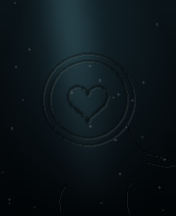
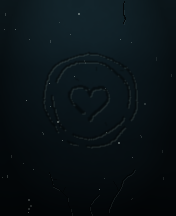
7.6.50: gear slots: four paintings of the water (no shared ray of light), tiny sharp sea snow, the mythical slot's seal cut unevenly; a slot's rarity as light pooling up from the bottom of its well with a fine lit edge climbing the sides (legendary and mythical breathing), not a bar along its foot; 
Claude-Session: https://claude.ai/code/session_01KViiRYY5HFnTy3p7jvNZMS

diff --git a/index.html b/index.html
@@ -81,8 +81,8 @@
   <link rel="preconnect" href="https://fonts.googleapis.com">
   <link rel="preconnect" href="https://fonts.gstatic.com" crossorigin>
   <link href="https://fonts.googleapis.com/css2?family=Barlow+Semi+Condensed:wght@400;500;600;700&display=block" rel="stylesheet">
-  <link rel="stylesheet" href="css/style.css?v=7.6.49">
-  <link rel="stylesheet" href="css/olive.css?v=7.6.49">
+  <link rel="stylesheet" href="css/style.css?v=7.6.50">
+  <link rel="stylesheet" href="css/olive.css?v=7.6.50">
   <style>
     /* (4.17.2) the loading screen, poster-style: the painting left alone (only a slow push-in), and over it, at the
        lower left, flat type in the sunset's own orange and a warm off-white: a stamped helmet mark, the title, a
@@ -438,97 +438,97 @@
   <!-- stamp:start (tools/stamp.py) -->
   <script type="importmap">
   { "imports": {
-    "./js/abilities.js": "./js/abilities.js?v=7.6.49",
-    "./js/achievements.js": "./js/achievements.js?v=7.6.49",
-    "./js/alarm.js": "./js/alarm.js?v=7.6.49",
-    "./js/aquarium.js": "./js/aquarium.js?v=7.6.49",
-    "./js/aquarium_draw.js": "./js/aquarium_draw.js?v=7.6.49",
-    "./js/arm.js": "./js/arm.js?v=7.6.49",
-    "./js/audio.js": "./js/audio.js?v=7.6.49",
-    "./js/autopilot.js": "./js/autopilot.js?v=7.6.49",
-    "./js/barge_draw.js": "./js/barge_draw.js?v=7.6.49",
-    "./js/buoy_draw.js": "./js/buoy_draw.js?v=7.6.49",
-    "./js/cabin.js": "./js/cabin.js?v=7.6.49",
-    "./js/capture.js": "./js/capture.js?v=7.6.49",
-    "./js/catalog.js": "./js/catalog.js?v=7.6.49",
-    "./js/chart.js": "./js/chart.js?v=7.6.49",
-    "./js/chest_art.js": "./js/chest_art.js?v=7.6.49",
-    "./js/chests.js": "./js/chests.js?v=7.6.49",
-    "./js/clouds.js": "./js/clouds.js?v=7.6.49",
-    "./js/codes.js": "./js/codes.js?v=7.6.49",
-    "./js/coin_art.js": "./js/coin_art.js?v=7.6.49",
-    "./js/coins.js": "./js/coins.js?v=7.6.49",
-    "./js/contracts.js": "./js/contracts.js?v=7.6.49",
-    "./js/creatures_draw.js": "./js/creatures_draw.js?v=7.6.49",
-    "./js/dave.js": "./js/dave.js?v=7.6.49",
-    "./js/dave_art.js": "./js/dave_art.js?v=7.6.49",
-    "./js/designs.js": "./js/designs.js?v=7.6.49",
-    "./js/earl_draw.js": "./js/earl_draw.js?v=7.6.49",
-    "./js/economy.js": "./js/economy.js?v=7.6.49",
-    "./js/entity.js": "./js/entity.js?v=7.6.49",
-    "./js/face_draw.js": "./js/face_draw.js?v=7.6.49",
-    "./js/fatfinger.js": "./js/fatfinger.js?v=7.6.49",
-    "./js/fauna.js": "./js/fauna.js?v=7.6.49",
-    "./js/fittings.js": "./js/fittings.js?v=7.6.49",
-    "./js/gallery.js": "./js/gallery.js?v=7.6.49",
-    "./js/gauge_art.js": "./js/gauge_art.js?v=7.6.49",
-    "./js/gear_art.js": "./js/gear_art.js?v=7.6.49",
-    "./js/glyphs.js": "./js/glyphs.js?v=7.6.49",
-    "./js/hud.js": "./js/hud.js?v=7.6.49",
-    "./js/hunters.js": "./js/hunters.js?v=7.6.49",
-    "./js/input.js": "./js/input.js?v=7.6.49",
-    "./js/item_art.js": "./js/item_art.js?v=7.6.49",
-    "./js/item_data.js": "./js/item_data.js?v=7.6.49",
-    "./js/item_words.js": "./js/item_words.js?v=7.6.49",
-    "./js/itemcard.js": "./js/itemcard.js?v=7.6.49",
-    "./js/items.js": "./js/items.js?v=7.6.49",
-    "./js/journal_tank.js": "./js/journal_tank.js?v=7.6.49",
-    "./js/kit_art.js": "./js/kit_art.js?v=7.6.49",
-    "./js/legendfx.js": "./js/legendfx.js?v=7.6.49",
-    "./js/main.js": "./js/main.js?v=7.6.49",
-    "./js/messages.js": "./js/messages.js?v=7.6.49",
-    "./js/monster_draw.js": "./js/monster_draw.js?v=7.6.49",
-    "./js/oldone.js": "./js/oldone.js?v=7.6.49",
-    "./js/petfeed.js": "./js/petfeed.js?v=7.6.49",
-    "./js/pets.js": "./js/pets.js?v=7.6.49",
-    "./js/petshop.js": "./js/petshop.js?v=7.6.49",
-    "./js/player.js": "./js/player.js?v=7.6.49",
-    "./js/purchases.js": "./js/purchases.js?v=7.6.49",
-    "./js/quests.js": "./js/quests.js?v=7.6.49",
-    "./js/render.js": "./js/render.js?v=7.6.49",
-    "./js/reveal.js": "./js/reveal.js?v=7.6.49",
-    "./js/scenery_draw.js": "./js/scenery_draw.js?v=7.6.49",
-    "./js/scrolls.js": "./js/scrolls.js?v=7.6.49",
-    "./js/settings.js": "./js/settings.js?v=7.6.49",
-    "./js/shelf.js": "./js/shelf.js?v=7.6.49",
-    "./js/showcase.js": "./js/showcase.js?v=7.6.49",
-    "./js/sleeper_draw.js": "./js/sleeper_draw.js?v=7.6.49",
-    "./js/species.js": "./js/species.js?v=7.6.49",
-    "./js/species_looks.js": "./js/species_looks.js?v=7.6.49",
-    "./js/specimens.js": "./js/specimens.js?v=7.6.49",
-    "./js/station_draw.js": "./js/station_draw.js?v=7.6.49",
-    "./js/store.js": "./js/store.js?v=7.6.49",
-    "./js/suit_art.js": "./js/suit_art.js?v=7.6.49",
-    "./js/survey.js": "./js/survey.js?v=7.6.49",
-    "./js/tankroom.js": "./js/tankroom.js?v=7.6.49",
-    "./js/textures.js": "./js/textures.js?v=7.6.49",
-    "./js/title_art.js": "./js/title_art.js?v=7.6.49",
-    "./js/tokens.js": "./js/tokens.js?v=7.6.49",
-    "./js/tools_draw.js": "./js/tools_draw.js?v=7.6.49",
-    "./js/touch.js": "./js/touch.js?v=7.6.49",
-    "./js/trail.js": "./js/trail.js?v=7.6.49",
-    "./js/traps.js": "./js/traps.js?v=7.6.49",
-    "./js/tutspot.js": "./js/tutspot.js?v=7.6.49",
-    "./js/ui.js": "./js/ui.js?v=7.6.49",
-    "./js/undocumented_draw.js": "./js/undocumented_draw.js?v=7.6.49",
-    "./js/units.js": "./js/units.js?v=7.6.49",
-    "./js/util.js": "./js/util.js?v=7.6.49",
-    "./js/variants.js": "./js/variants.js?v=7.6.49",
-    "./js/version.js": "./js/version.js?v=7.6.49",
-    "./js/world.js": "./js/world.js?v=7.6.49",
-    "./data/species_about.js": "./data/species_about.js?v=7.6.49",
-    "./data/species_data.js": "./data/species_data.js?v=7.6.49",
-    "./data/species_more.js": "./data/species_more.js?v=7.6.49"
+    "./js/abilities.js": "./js/abilities.js?v=7.6.50",
+    "./js/achievements.js": "./js/achievements.js?v=7.6.50",
+    "./js/alarm.js": "./js/alarm.js?v=7.6.50",
+    "./js/aquarium.js": "./js/aquarium.js?v=7.6.50",
+    "./js/aquarium_draw.js": "./js/aquarium_draw.js?v=7.6.50",
+    "./js/arm.js": "./js/arm.js?v=7.6.50",
+    "./js/audio.js": "./js/audio.js?v=7.6.50",
+    "./js/autopilot.js": "./js/autopilot.js?v=7.6.50",
+    "./js/barge_draw.js": "./js/barge_draw.js?v=7.6.50",
+    "./js/buoy_draw.js": "./js/buoy_draw.js?v=7.6.50",
+    "./js/cabin.js": "./js/cabin.js?v=7.6.50",
+    "./js/capture.js": "./js/capture.js?v=7.6.50",
+    "./js/catalog.js": "./js/catalog.js?v=7.6.50",
+    "./js/chart.js": "./js/chart.js?v=7.6.50",
+    "./js/chest_art.js": "./js/chest_art.js?v=7.6.50",
+    "./js/chests.js": "./js/chests.js?v=7.6.50",
+    "./js/clouds.js": "./js/clouds.js?v=7.6.50",
+    "./js/codes.js": "./js/codes.js?v=7.6.50",
+    "./js/coin_art.js": "./js/coin_art.js?v=7.6.50",
+    "./js/coins.js": "./js/coins.js?v=7.6.50",
+    "./js/contracts.js": "./js/contracts.js?v=7.6.50",
+    "./js/creatures_draw.js": "./js/creatures_draw.js?v=7.6.50",
+    "./js/dave.js": "./js/dave.js?v=7.6.50",
+    "./js/dave_art.js": "./js/dave_art.js?v=7.6.50",
+    "./js/designs.js": "./js/designs.js?v=7.6.50",
+    "./js/earl_draw.js": "./js/earl_draw.js?v=7.6.50",
+    "./js/economy.js": "./js/economy.js?v=7.6.50",
+    "./js/entity.js": "./js/entity.js?v=7.6.50",
+    "./js/face_draw.js": "./js/face_draw.js?v=7.6.50",
+    "./js/fatfinger.js": "./js/fatfinger.js?v=7.6.50",
+    "./js/fauna.js": "./js/fauna.js?v=7.6.50",
+    "./js/fittings.js": "./js/fittings.js?v=7.6.50",
+    "./js/gallery.js": "./js/gallery.js?v=7.6.50",
+    "./js/gauge_art.js": "./js/gauge_art.js?v=7.6.50",
+    "./js/gear_art.js": "./js/gear_art.js?v=7.6.50",
+    "./js/glyphs.js": "./js/glyphs.js?v=7.6.50",
+    "./js/hud.js": "./js/hud.js?v=7.6.50",
+    "./js/hunters.js": "./js/hunters.js?v=7.6.50",
+    "./js/input.js": "./js/input.js?v=7.6.50",
+    "./js/item_art.js": "./js/item_art.js?v=7.6.50",
+    "./js/item_data.js": "./js/item_data.js?v=7.6.50",
+    "./js/item_words.js": "./js/item_words.js?v=7.6.50",
+    "./js/itemcard.js": "./js/itemcard.js?v=7.6.50",
+    "./js/items.js": "./js/items.js?v=7.6.50",
+    "./js/journal_tank.js": "./js/journal_tank.js?v=7.6.50",
+    "./js/kit_art.js": "./js/kit_art.js?v=7.6.50",
+    "./js/legendfx.js": "./js/legendfx.js?v=7.6.50",
+    "./js/main.js": "./js/main.js?v=7.6.50",
+    "./js/messages.js": "./js/messages.js?v=7.6.50",
+    "./js/monster_draw.js": "./js/monster_draw.js?v=7.6.50",
+    "./js/oldone.js": "./js/oldone.js?v=7.6.50",
+    "./js/petfeed.js": "./js/petfeed.js?v=7.6.50",
+    "./js/pets.js": "./js/pets.js?v=7.6.50",
+    "./js/petshop.js": "./js/petshop.js?v=7.6.50",
+    "./js/player.js": "./js/player.js?v=7.6.50",
+    "./js/purchases.js": "./js/purchases.js?v=7.6.50",
+    "./js/quests.js": "./js/quests.js?v=7.6.50",
+    "./js/render.js": "./js/render.js?v=7.6.50",
+    "./js/reveal.js": "./js/reveal.js?v=7.6.50",
+    "./js/scenery_draw.js": "./js/scenery_draw.js?v=7.6.50",
+    "./js/scrolls.js": "./js/scrolls.js?v=7.6.50",
+    "./js/settings.js": "./js/settings.js?v=7.6.50",
+    "./js/shelf.js": "./js/shelf.js?v=7.6.50",
+    "./js/showcase.js": "./js/showcase.js?v=7.6.50",
+    "./js/sleeper_draw.js": "./js/sleeper_draw.js?v=7.6.50",
+    "./js/species.js": "./js/species.js?v=7.6.50",
+    "./js/species_looks.js": "./js/species_looks.js?v=7.6.50",
+    "./js/specimens.js": "./js/specimens.js?v=7.6.50",
+    "./js/station_draw.js": "./js/station_draw.js?v=7.6.50",
+    "./js/store.js": "./js/store.js?v=7.6.50",
+    "./js/suit_art.js": "./js/suit_art.js?v=7.6.50",
+    "./js/survey.js": "./js/survey.js?v=7.6.50",
+    "./js/tankroom.js": "./js/tankroom.js?v=7.6.50",
+    "./js/textures.js": "./js/textures.js?v=7.6.50",
+    "./js/title_art.js": "./js/title_art.js?v=7.6.50",
+    "./js/tokens.js": "./js/tokens.js?v=7.6.50",
+    "./js/tools_draw.js": "./js/tools_draw.js?v=7.6.50",
+    "./js/touch.js": "./js/touch.js?v=7.6.50",
+    "./js/trail.js": "./js/trail.js?v=7.6.50",
+    "./js/traps.js": "./js/traps.js?v=7.6.50",
+    "./js/tutspot.js": "./js/tutspot.js?v=7.6.50",
+    "./js/ui.js": "./js/ui.js?v=7.6.50",
+    "./js/undocumented_draw.js": "./js/undocumented_draw.js?v=7.6.50",
+    "./js/units.js": "./js/units.js?v=7.6.50",
+    "./js/util.js": "./js/util.js?v=7.6.50",
+    "./js/variants.js": "./js/variants.js?v=7.6.50",
+    "./js/version.js": "./js/version.js?v=7.6.50",
+    "./js/world.js": "./js/world.js?v=7.6.50",
+    "./data/species_about.js": "./data/species_about.js?v=7.6.50",
+    "./data/species_data.js": "./data/species_data.js?v=7.6.50",
+    "./data/species_more.js": "./data/species_more.js?v=7.6.50"
   } }
   </script>
   <script type="module">if (!window.__shell) import("./js/main.js");</script>

diff --git a/css/olive.css b/css/olive.css
@@ -2331,7 +2331,6 @@ html body #quests .qs-cash-ic { width: 26px; height: 20px; object-fit: contain; 
 /* (7.6.48, owner) the bag's first skill slot, the only one that takes a mythical scroll: four small ember-bronze corner
    brackets set into the plate round it, and a faint warmth in its well */
 html body #inventory .eq-slot.myth-slot { position: relative; }
-html body #inventory .eq-slot.myth-slot::after { content: ''; position: absolute; inset: -2px; pointer-events: none; box-shadow: inset 0 0 14px rgba(170, 64, 36, 0.28); }
 html body #inventory .eq-slot.myth-slot .ms-c { position: absolute; width: 14px; height: 14px; pointer-events: none; border: 0 solid #a4552f; filter: drop-shadow(0 1px 0 rgba(0, 0, 0, 0.7)); z-index: 2; }
 html body #inventory .eq-slot.myth-slot .ms-c.a { left: -9px; top: -9px; border-left-width: 3px; border-top-width: 3px; }
 html body #inventory .eq-slot.myth-slot .ms-c.b { right: -9px; top: -9px; border-right-width: 3px; border-top-width: 3px; }
@@ -2358,12 +2357,32 @@ html body #inventory .st-cell.fx-down .st-d { color: #cc7a5c; animation: st-rise
 /* (7.6.49, owner) the gear slots' insides painted as deep water seen through the well, a few hairline cracks in the steel
    (tools/slot_wells.py); the first skill slot more so, with a worn seal pressed into its back. Its ember warmth only
    when a mythical scroll is in it; no rings or brackets round it */
-html body #inventory .eq-stage .eq-slot.sq:not(#_a):not(#_b) { border-image: url("../assets/ui/olive/well.png") 30 / 8px stretch !important; background: url("../assets/ui/olive/slot_deep.png") center / 100% 100% no-repeat !important; background-clip: padding-box !important; }
+html body #inventory .eq-stage .eq-slot.sq:not(#_a):not(#_b) { border-image: url("../assets/ui/olive/well.png") 30 / 8px stretch !important; background: url("../assets/ui/olive/slot_deep1.png") center / 100% 100% no-repeat !important; background-clip: padding-box !important; box-shadow: none !important; position: relative; }
 html body #inventory .eq-stage .eq-slot.sq.myth-slot:not(#_a):not(#_b) { background-image: url("../assets/ui/olive/slot_myth.png") !important; }
-html body #inventory .eq-stage .eq-slot.sq.myth-slot.r-mythical:not(#_a):not(#_b) { background: radial-gradient(ellipse at 50% 55%, rgba(200, 74, 44, 0.42), rgba(120, 30, 16, 0.18) 55%, rgba(0, 0, 0, 0) 80%), url("../assets/ui/olive/slot_myth.png") center / 100% 100% no-repeat !important; background-clip: padding-box !important; box-shadow: inset 0 -3px 0 var(--rc, transparent) !important; }
-html body #inventory .eq-stage .eq-slot.sq.r-mythical:not(.myth-slot) { box-shadow: inset 0 -3px 0 var(--rc, transparent) !important; }
-html body #inventory .eq-slot.myth-slot::after, html body #inventory .eq-slot.myth-slot .ms-c { display: none !important; }
+html body #inventory .eq-stage .eq-slot.sq.myth-slot.r-mythical:not(#_a):not(#_b) { background: radial-gradient(ellipse at 50% 55%, rgba(200, 74, 44, 0.42), rgba(120, 30, 16, 0.18) 55%, rgba(0, 0, 0, 0) 80%), url("../assets/ui/olive/slot_myth.png") center / 100% 100% no-repeat !important; background-clip: padding-box !important; box-shadow: none !important; }
+html body #inventory .eq-stage .eq-slot.sq.r-mythical:not(.myth-slot) { box-shadow: none !important; }
+html body #inventory .eq-slot.myth-slot .ms-c { display: none !important; }
 /* (7.6.49, owner) the helmet slot, waiting for helmets; the glow sticks in a pouch at his feet */
 html body #inventory .eq-stage { position: relative; }
 html body #inventory .eq-stage .eq-slot.helmet { opacity: 0.75; }
-html body #inventory .eq-pouch { position: absolute; left: calc(50% + 62px); bottom: 22px; transform: scale(0.78); transform-origin: 50% 100%; z-index: 2; }
+html body #inventory .eq-pouch { position: absolute; left: calc(50% + 98px); bottom: 22px; transform: scale(0.78); transform-origin: 50% 100%; z-index: 2; }
+/* (7.6.50, owner) each slot its own painting of the water, so no two neighbours match */
+html body #inventory .eq-stage .eq-col:first-child .eq-slot.sq:nth-child(4n+2):not(#_a):not(#_b), html body #inventory .eq-stage .eq-col:last-child .eq-slot.sq:nth-child(4n+4):not(#_a):not(#_b) { background-image: url("../assets/ui/olive/slot_deep2.png") !important; }
+html body #inventory .eq-stage .eq-col:first-child .eq-slot.sq:nth-child(4n+3):not(#_a):not(#_b), html body #inventory .eq-stage .eq-col:last-child .eq-slot.sq:nth-child(4n+1):not(#_a):not(#_b) { background-image: url("../assets/ui/olive/slot_deep3.png") !important; }
+html body #inventory .eq-stage .eq-col:first-child .eq-slot.sq:nth-child(4n+4):not(#_a):not(#_b), html body #inventory .eq-stage .eq-col:last-child .eq-slot.sq:nth-child(4n+2):not(#_a):not(#_b) { background-image: url("../assets/ui/olive/slot_deep4.png") !important; }
+html body #inventory .eq-stage .eq-slot.sq.myth-slot:not(#_a):not(#_b) { background-image: url("../assets/ui/olive/slot_myth.png") !important; }
+html body #inventory .eq-stage .eq-slot.sq.myth-slot.r-mythical:not(#_a):not(#_b) { background-image: radial-gradient(ellipse at 50% 55%, rgba(200, 74, 44, 0.42), rgba(120, 30, 16, 0.18) 55%, rgba(0, 0, 0, 0) 80%), url("../assets/ui/olive/slot_myth.png") !important; }
+/* (7.6.50, owner) a slot's rarity, not a bar along its foot (it read as a durability meter): the rarity's light pooling up
+   from the bottom of the well, a fine lit edge along the foot that climbs a little way up each side and fades; the
+   legendary's and the mythical's breathing slowly */
+html body #inventory .eq-stage .eq-slot.sq:not(.empty) > img, html body #inventory .eq-stage .eq-slot.sq > .slot-nm, html body #inventory .eq-stage .eq-slot.sq > b { position: relative; z-index: 1; }
+html body #inventory .eq-stage .eq-slot.sq:not(.empty)::before { content: ''; position: absolute; inset: 0; pointer-events: none; z-index: 0;
+  background: radial-gradient(130% 50% at 50% 112%, color-mix(in srgb, var(--rc, #888) 42%, transparent), color-mix(in srgb, var(--rc, #888) 10%, transparent) 55%, transparent 80%); }
+html body #inventory .eq-stage .eq-slot.sq:not(.empty)::after { content: ''; position: absolute; inset: 0; pointer-events: none; z-index: 0; border: 1px solid color-mix(in srgb, var(--rc, #888) 80%, transparent); border-top: 0;
+  -webkit-mask-image: linear-gradient(to top, #000 0, #000 6%, rgba(0, 0, 0, 0.35) 22%, transparent 42%); mask-image: linear-gradient(to top, #000 0, #000 6%, rgba(0, 0, 0, 0.35) 22%, transparent 42%); box-shadow: inset 0 -6px 10px -6px color-mix(in srgb, var(--rc, #888) 70%, transparent); }
+html body #inventory .eq-stage .eq-slot.sq.r-legendary::before, html body #inventory .eq-stage .eq-slot.sq.r-mythical::before { animation: slot-breathe 4.5s ease-in-out infinite; }
+@keyframes slot-breathe { 50% { opacity: 0.6; } }
+@media (prefers-reduced-motion: reduce) { html body #inventory .eq-stage .eq-slot.sq::before { animation: none !important; } }
+/* bright things are earned: a common's light is faint, an uncommon's a little less so */
+html body #inventory .eq-stage .eq-slot.sq.r-common::before, html body #inventory .eq-stage .eq-slot.sq.r-common::after { opacity: 0.4; }
+html body #inventory .eq-stage .eq-slot.sq.r-uncommon::before, html body #inventory .eq-stage .eq-slot.sq.r-uncommon::after { opacity: 0.7; }

diff --git a/js/version.js b/js/version.js
@@ -1,3 +1,3 @@
 // The game's version. Bumped with every change: the last number for small fixes and tweaks,
 // the middle one for new features or bigger changes, the first for a major overhaul.
-export const VERSION = '7.6.49';
+export const VERSION = '7.6.50';

diff --git a/tools/slot_wells.py b/tools/slot_wells.py
@@ -1,9 +1,12 @@
 #!/usr/bin/env python3
-"""(7.6.49, owner) the inside of the bag's gear slots, painted once: deep water seen through the well (light from far
-above, darker below, a little sea snow), and a few hairline cracks in the steel. The first skill slot, the only one that
-takes a mythical scroll, gets more: deeper water, more cracks and a worn seal pressed into its back.
+"""(7.6.49-50, owner) the inside of the bag's gear slots, painted once: dark water seen through the well, no shaft of
+light (every slot had the same one, a row of identical rays): the light uneven and soft, each slot its own; tiny sharp
+specks of sea snow, the odd one drawn out as it sinks; a few hairline cracks in the steel. Four variants, so no two
+neighbouring slots match. The first skill slot, the only one that takes a mythical scroll, gets deeper water, more
+cracks and a worn seal pressed into its back, cut unevenly by hand: rings broken where the steel has worn, a heart
+that is not quite symmetrical.
 
-    python3 tools/slot_wells.py   -> assets/ui/olive/slot_deep.png, slot_myth.png
+    python3 tools/slot_wells.py   -> assets/ui/olive/slot_deep1..4.png, slot_myth.png
 """
 import os, math
 import numpy as np
@@ -20,56 +23,85 @@ def noise(rng, scale):
 
 def water(rng, top, bot, light):
     y = np.linspace(0, 1, H)[:, None]; x = np.linspace(-1, 1, W)[None, :]
-    k = y ** 0.8
+    k = y ** 0.9
     rgb = np.array(top)[None, None, :] * (1 - k[..., None]) + np.array(bot)[None, None, :] * k[..., None]
-    shaft = np.exp(-((x + 0.25 - y * 0.35) ** 2) / 0.08) * (1 - y) * light  # a faint slant of light from far above
-    n = (noise(rng, 18) - 0.5) * 0.05 + (noise(rng, 5) - 0.5) * 0.025
-    rgb = rgb * (1 + n[..., None]) + shaft[..., None] * np.array([40, 62, 66])[None, None, :]
-    vig = 1 - 0.45 * np.clip((np.abs(x) ** 2 + (np.abs(y - 0.45) * 1.6) ** 2), 0, 1)  # darker into the corners of the well
+    glow = np.clip(noise(rng, 70) - 0.45, 0, 1) * (1 - y) * light  # uneven light coming down through the water, soft and patchy
+    n = (noise(rng, 22) - 0.5) * 0.07 + (noise(rng, 6) - 0.5) * 0.035 + (noise(rng, 2) - 0.5) * 0.02
+    rgb = rgb * (1 + n[..., None]) + glow[..., None] * np.array([34, 54, 58])[None, None, :]
+    vig = 1 - 0.5 * np.clip((np.abs(x) ** 2.2 + (np.abs(y - 0.42) * 1.5) ** 2), 0, 1)
     return np.clip(rgb * vig[..., None], 0, 255)
 
 
 def snow(d, rng, n):
     for _ in range(n):
-        x, y, r = rng.uniform(0, W), rng.uniform(0, H), rng.uniform(0.5, 1.1)
-        d.ellipse([x - r, y - r, x + r, y + r], fill=(190, 204, 198, int(rng.uniform(18, 60))))
+        x, y = rng.uniform(2, W - 2), rng.uniform(2, H - 2); a = int(rng.uniform(40, 120)); c = (196, 208, 200)
+        if rng.random() < 0.2: d.line([(x, y), (x + rng.uniform(-0.6, 0.6), y + rng.uniform(1.5, 3))], fill=c + (a // 2,), width=1)  # sinking: drawn out
+        elif rng.random() < 0.25: d.rectangle([x, y, x + 1, y + 1], fill=c + (a,))
+        else: d.point((x, y), fill=c + (a,))
+
+
+def crack_path(rng, x, y, a, steps, step=(4, 9)):
+    pts = [(x, y)]
+    for _ in range(steps):
+        a += rng.uniform(-0.6, 0.6); x += math.cos(a) * rng.uniform(*step); y += math.sin(a) * rng.uniform(*step); pts.append((x, y))
+    return pts, a
 
 
 def cracks(d, rng, n, reach):
     for _ in range(n):
-        side = rng.integers(4)  # a crack runs in from an edge of the well
-        x, y = [(rng.uniform(10, W - 10), 2), (W - 2, rng.uniform(10, H - 10)), (rng.uniform(10, W - 10), H - 2), (2, rng.uniform(10, H - 10))][side]
-        a = [math.pi / 2, math.pi, -math.pi / 2, 0][side] + rng.uniform(-0.5, 0.5); pts = [(x, y)]
-        for _ in range(int(rng.integers(4, reach))):
-            a += rng.uniform(-0.55, 0.55); x += math.cos(a) * rng.uniform(5, 10); y += math.sin(a) * rng.uniform(5, 10); pts.append((x, y))
-            if rng.random() < 0.18:  # a short branch
-                b = a + rng.choice([-1, 1]) * rng.uniform(0.6, 1.1); bx, by = x + math.cos(b) * rng.uniform(5, 12), y + math.sin(b) * rng.uniform(5, 12)
-                d.line([(x, y), (bx, by)], fill=(2, 4, 5, 200), width=1)
-        d.line([(px + 0.8, py + 0.8) for px, py in pts], fill=(150, 170, 165, 30), width=1)  # the lit lip of the crack
-        d.line(pts, fill=(2, 4, 5, 230), width=1)
+        side = rng.integers(4)
+        x, y = [(rng.uniform(10, W - 10), 1), (W - 1, rng.uniform(10, H - 10)), (rng.uniform(10, W - 10), H - 1), (1, rng.uniform(10, H - 10))][side]
+        a = [math.pi / 2, math.pi, -math.pi / 2, 0][side] + rng.uniform(-0.5, 0.5)
+        pts, _ = crack_path(rng, x, y, a, int(rng.integers(3, reach)))
+        for i in range(1, len(pts) - 1):
+            if rng.random() < 0.22: br, _ = crack_path(rng, *pts[i], a + rng.choice([-1, 1]) * rng.uniform(0.7, 1.2), int(rng.integers(1, 3)), (3, 7)); d.line(br, fill=(2, 4, 5, 170), width=1)
+        d.line([(px + 0.7, py + 0.9) for px, py in pts], fill=(150, 170, 165, 26), width=1)
+        d.line(pts, fill=(2, 4, 5, 220), width=1)
 
 
-def well(name, seed, top, bot, light, n_snow, n_cracks, reach, seal=False):
+def seal(rng):
+    """a worn seal pressed into steel, cut by hand: two broken rings that wander a little, a lopsided heart, nicks"""
+    L = Image.new('RGBA', (W, H), (0, 0, 0, 0)); e = ImageDraw.Draw(L, 'RGBA'); cx, cy = W / 2 + 2, H * 0.46
+    def ring(r, wob, gaps):
+        ph = rng.uniform(0, 6.3); segs = []; cur = []
+        for i in range(181):
+            t = i / 180 * 2 * math.pi
+            if any(g0 < t < g1 for g0, g1 in gaps): (segs.append(cur) if len(cur) > 1 else None); cur = []; continue
+            rr = r + wob * math.sin(3 * t + ph) + wob * 0.6 * math.sin(7 * t + ph * 2) + rng.uniform(-0.3, 0.3)
+            cur.append((cx + rr * math.cos(t), cy + rr * math.sin(t) * 1.02))
+        if len(cur) > 1: segs.append(cur)
+        return segs
+    def gaps(n):
+        out = []
+        for _ in range(n): g = rng.uniform(0, 2 * math.pi); out.append((g, g + rng.uniform(0.12, 0.45)))
+        return out
+    for r, w in ((46, 1.3), (38, 1.0)):
+        for s in ring(r, w, gaps(3)):
+            e.line([(x + 1, y + 1) for x, y in s], fill=(150, 170, 160, 30), width=2); e.line(s, fill=(1, 4, 5, 150), width=2)
+    hp = []
+    for i in range(72):
+        t = i / 72 * 2 * math.pi; hx = 16 * math.sin(t) ** 3; hy = -(13 * math.cos(t) - 5 * math.cos(2 * t) - 2 * math.cos(3 * t) - math.cos(4 * t))
+        lop = 1.08 if hx < 0 else 0.95  # one lobe a little fuller
+        hp.append((cx + hx * 1.2 * lop + rng.uniform(-0.5, 0.5), cy + hy * 1.18 + 1 + (1.5 if hx > 0 else 0) * (hy < 0) + rng.uniform(-0.5, 0.5)))
+    cut = int(rng.integers(10, 60)); hs = hp[cut:] + hp[:cut - 3]  # a short break where the die wore
+    e.line([(x + 1, y + 1) for x, y in hs], fill=(150, 170, 160, 26), width=3); e.line(hs, fill=(1, 4, 5, 140), width=3)
+    for _ in range(5):  # nicks in the face of the seal
+        a = rng.uniform(0, 2 * math.pi); r = rng.uniform(20, 44); x, y = cx + r * math.cos(a), cy + r * math.sin(a)
+        e.line([(x, y), (x + rng.uniform(-3, 3), y + rng.uniform(-3, 3))], fill=(1, 4, 5, 110), width=1)
+    return L.filter(ImageFilter.GaussianBlur(0.7))
+
+
+def well(name, seed, top, bot, light, n_snow, n_cracks, reach, with_seal=False):
     rng = np.random.default_rng(seed)
-    im = Image.fromarray(water(rng, top, bot, light).astype(np.uint8), 'RGB').convert('RGBA')
-    d = ImageDraw.Draw(im, 'RGBA')
-    if seal:  # a worn seal pressed into the back of the well: two rings and a heart, faint, softened by the water
-        L = Image.new('RGBA', im.size, (0, 0, 0, 0)); e = ImageDraw.Draw(L, 'RGBA'); cx, cy, r = W / 2, H * 0.46, 46
-        for rr in (r, r - 7):
-            e.ellipse([cx - rr + 1, cy - rr + 1, cx + rr + 1, cy + rr + 1], outline=(150, 170, 160, 34), width=2)
-            e.ellipse([cx - rr, cy - rr, cx + rr, cy + rr], outline=(1, 4, 5, 150), width=2)
-        hp = []
-        for i in range(60):
-            t = i / 60 * 2 * math.pi; hx = 16 * math.sin(t) ** 3; hy = -(13 * math.cos(t) - 5 * math.cos(2 * t) - 2 * math.cos(3 * t) - math.cos(4 * t))
-            hp.append((cx + hx * 1.25, cy + hy * 1.25 + 2))
-        e.line([(x + 1, y + 1) for x, y in hp + [hp[0]]], fill=(150, 170, 160, 30), width=3); e.line(hp + [hp[0]], fill=(1, 4, 5, 140), width=3)
-        im = Image.alpha_composite(im, L.filter(ImageFilter.GaussianBlur(0.9))); d = ImageDraw.Draw(im, 'RGBA')
-    L2 = Image.new('RGBA', im.size, (0, 0, 0, 0)); d2 = ImageDraw.Draw(L2, 'RGBA'); snow(d2, rng, n_snow); cracks(d2, rng, n_cracks, reach)
+    im = Image.fromarray(water(rng, top, bot, light).astype(np.uint8), 'RGB').convert('RGBA').filter(ImageFilter.GaussianBlur(0.3))
+    if with_seal: im = Image.alpha_composite(im, seal(rng))
+    L2 = Image.new('RGBA', im.size, (0, 0, 0, 0)); d2 = ImageDraw.Draw(L2, 'RGBA'); cracks(d2, rng, n_cracks, reach); snow(d2, rng, n_snow)
     im = Image.alpha_composite(im, L2)
-    im = im.filter(ImageFilter.GaussianBlur(0.35))
     im.save(os.path.join(OUT, name), optimize=True); print(name, im.size)
 
 
 if __name__ == '__main__':
-    well('slot_deep.png', 7, (24, 46, 54), (6, 13, 17), 0.55, 18, 2, 8)
-    well('slot_myth.png', 19, (20, 38, 46), (4, 9, 12), 0.7, 26, 4, 11, seal=True)
+    tones = [((22, 42, 50), (6, 12, 16)), ((20, 40, 46), (5, 11, 14)), ((24, 44, 50), (7, 13, 16)), ((21, 40, 48), (6, 12, 15))]
+    for i, (top, bot) in enumerate(tones):
+        well(f'slot_deep{i + 1}.png', 101 + i * 17, top, bot, 0.5, 34, 2 + i % 2, 7)
+    well('slot_myth.png', 23, (18, 36, 44), (4, 9, 12), 0.6, 40, 4, 10, with_seal=True)
